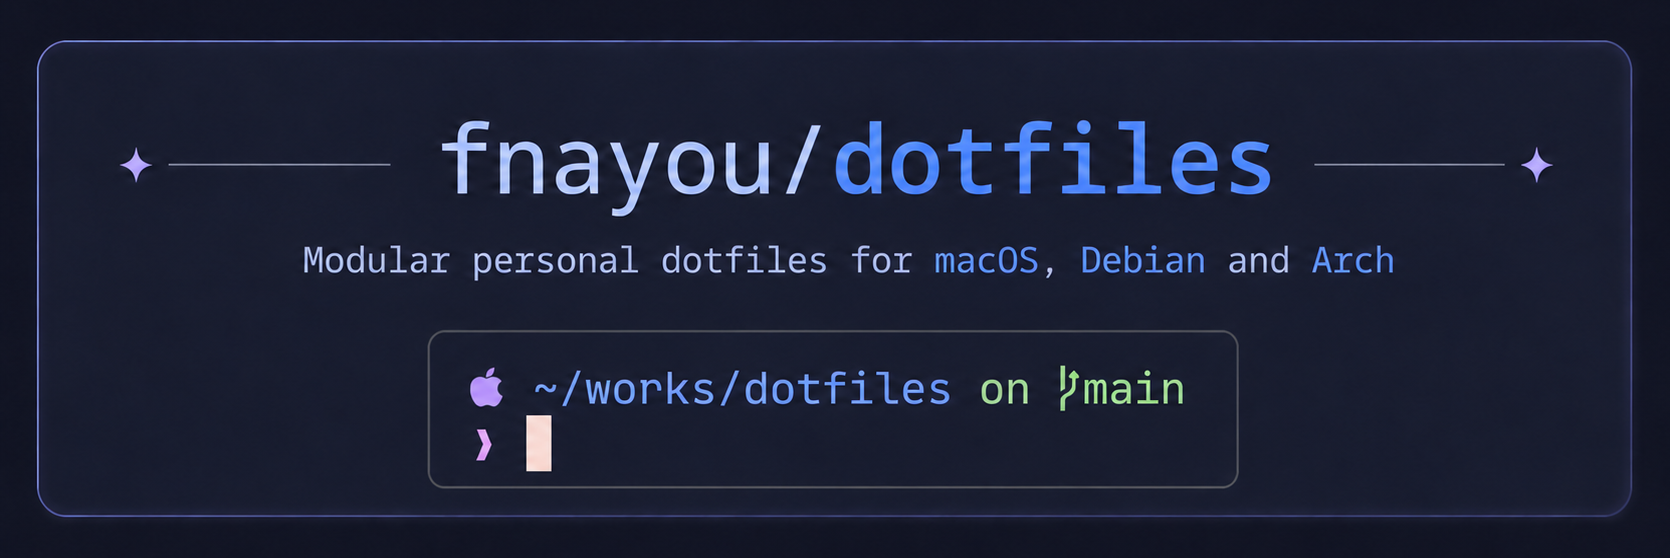
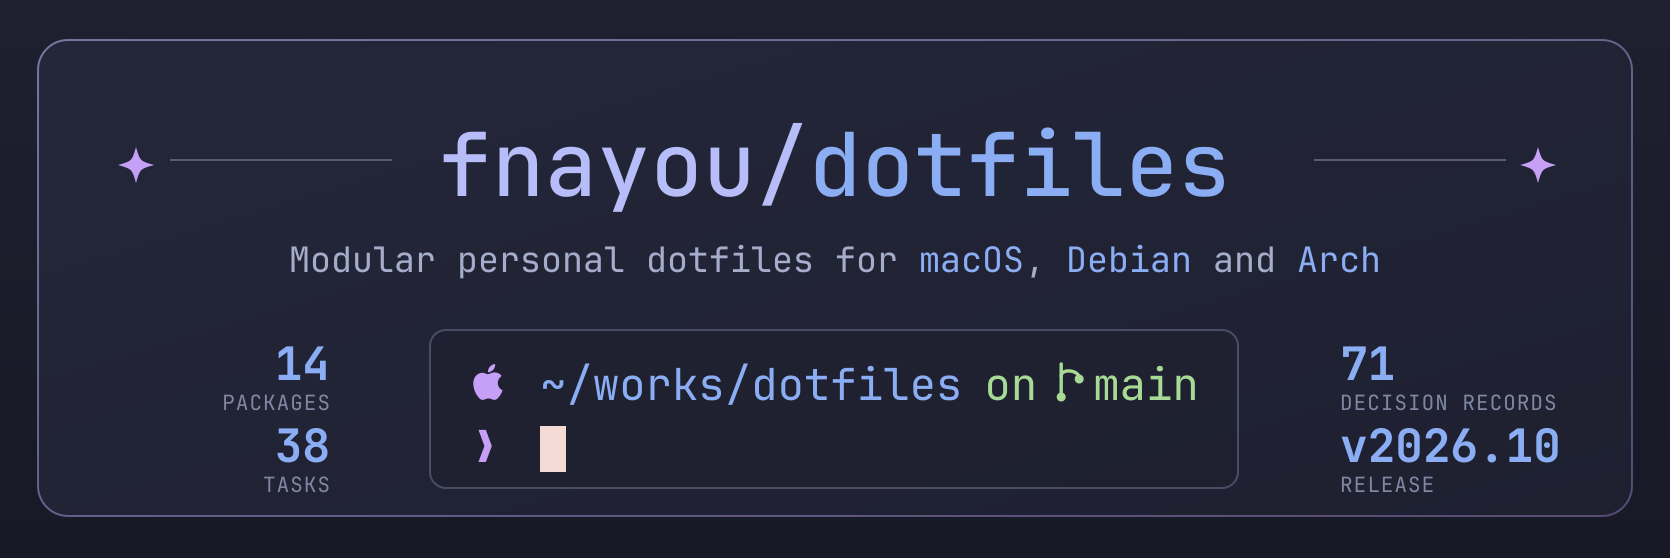
feat(art): regenerate the brand images and check them in CI

diff --git a/README.md b/README.md
@@ -1,7 +1,7 @@
 # dotfiles
 
 <p align="center">
-  <img src="website/assets/images/dotfiles-readme-banner.png" alt="fnayou/dotfiles banner" />
+  <img src="website/assets/images/dotfiles-readme-banner.svg" alt="fnayou/dotfiles banner" />
 </p>
 
 <p align="center">
@@ -60,7 +60,7 @@ Setup guides are written for a human operator, not for agents.
 - [Doctor](docs/guides/doctor.md) — `task doctor`, a read-only health check answering "is this machine set up the way the repo intends?".
 - [Packages setup](docs/guides/packages-setup.md) — install the tools every package depends on (`git`, `stow`, `go-task`, …).
 - [GNU Stow usage](docs/stow-usage.md) — dry-run workflow, install steps, conflict handling, adding packages.
-- Per-package setup guides — [alacritty](docs/guides/alacritty-setup.md) · [bat](docs/guides/bat-setup.md) · [btop](docs/guides/btop-setup.md) · [claude](docs/guides/claude-setup.md) · [codex](docs/guides/codex-setup.md) · [eza](docs/guides/eza-setup.md) · [ghostty](docs/guides/ghostty-setup.md) · [git](docs/guides/git-setup.md) · [herdr](docs/guides/herdr-setup.md) · [terminal-app](docs/guides/terminal-app-setup.md) · [zsh](docs/guides/zsh-setup.md).
+- Per-package setup guides — [alacritty](docs/guides/alacritty-setup.md) · [art](docs/guides/art-setup.md) · [bat](docs/guides/bat-setup.md) · [btop](docs/guides/btop-setup.md) · [claude](docs/guides/claude-setup.md) · [codex](docs/guides/codex-setup.md) · [eza](docs/guides/eza-setup.md) · [ghostty](docs/guides/ghostty-setup.md) · [git](docs/guides/git-setup.md) · [herdr](docs/guides/herdr-setup.md) · [terminal-app](docs/guides/terminal-app-setup.md) · [zsh](docs/guides/zsh-setup.md).
 - [Speed test setup](docs/guides/speedtest-setup.md) — optional `cloudflare-speed-cli` helpers (`speed`, `speed-json`, `speed-log`, `speed-history`) shipped by the zsh package.
 - [Agent tooling setup](docs/guides/agent-tooling-setup.md) — optional `rtk`, `caveman`, and Matt Pocock's skills, and how each is activated in Claude Code, opencode, and Codex CLI. Not Stow packages.
 - [Shell dependencies](docs/shell-dependencies.md) · [Zsh migration notes](docs/zsh-migration.md).
